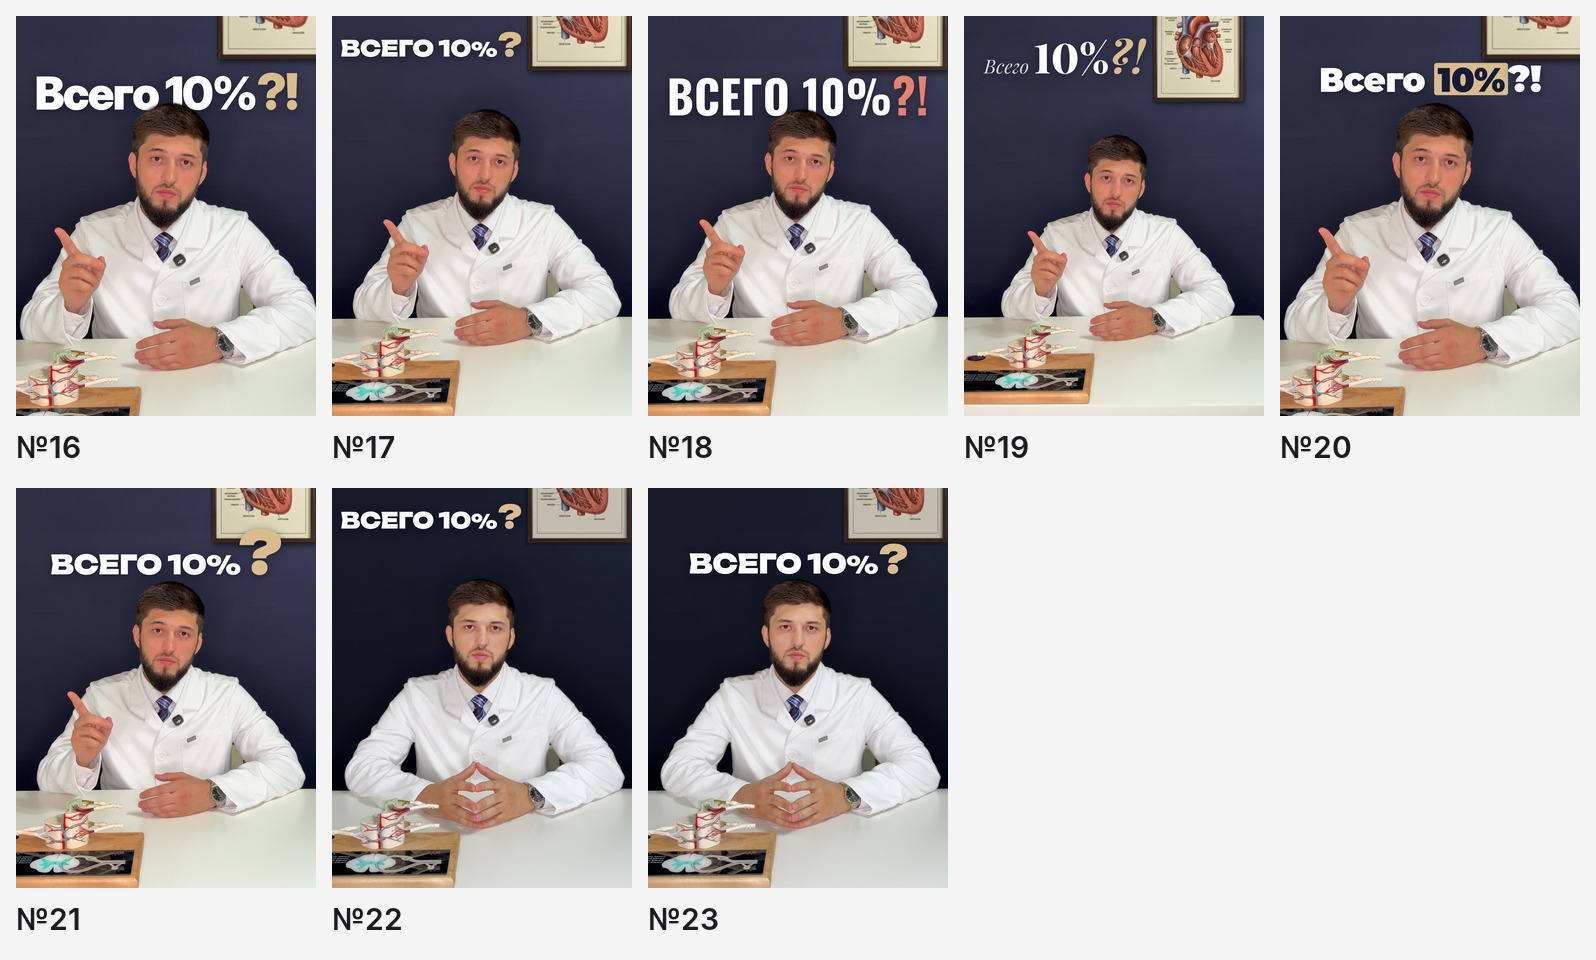
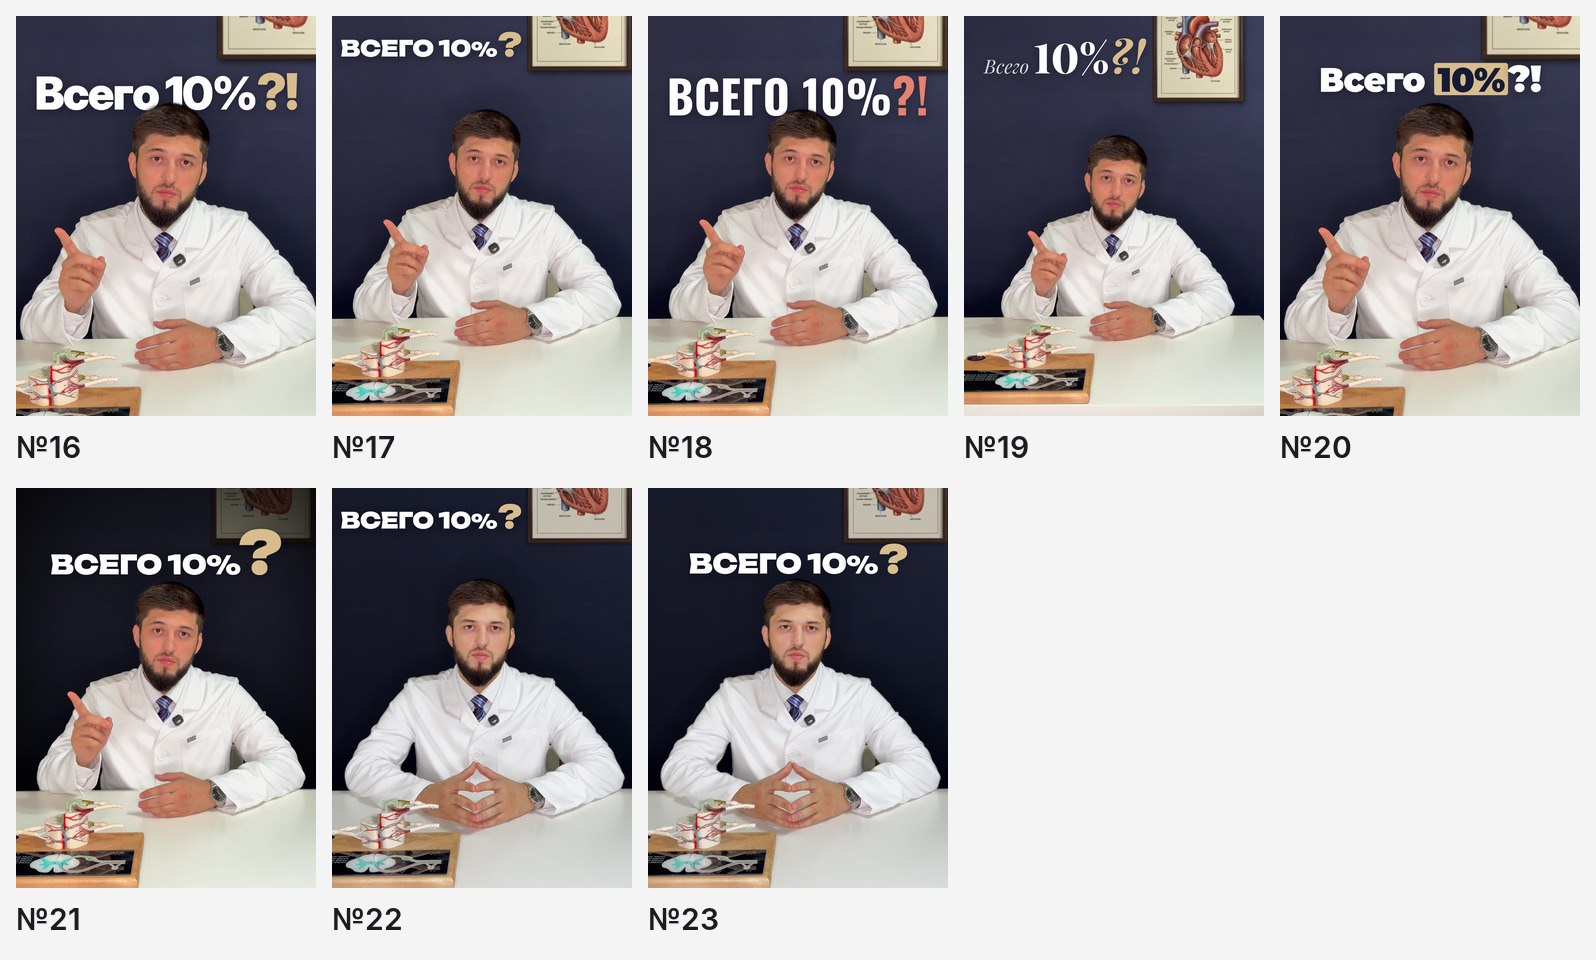
Reel 2 cover 21: darkened background like the first reel's bio title
darken.py darkens only the background through the RVM matte (the wall share
is subtracted from edge pixels, so no halo): wall ×0.56 near the head, down to
×0.17 at the top and ~×0.3 at the edges, poster ~×0.3; the doctor and the
table (below its back edge) are untouched. Levels matched to the client's
reference: wall 25–28 vs 23–31, top 6 vs 7.5, poster 36 vs 42, face 137.

Claude-Session: https://claude.ai/code/session_01CUeAeRhq8HGUP8vv7VWuP4

Changed region(s): [[0.0, 0.5, 0.2149, 0.8125], [0.1228, 0.7812, 0.1535, 0.8125]]

diff --git a/doctor-intro-reels/reel_2/covers/cover.html b/doctor-intro-reels/reel_2/covers/cover.html
@@ -119,7 +119,7 @@ const V = {
       <div class="t mont" data-w="800" data-center style="top:398px; font-weight:900; font-size:110px; letter-spacing:-.02em">Всего <span class="mark">10%</span><span style="font-size:1.1em">?!</span></div>` },
   // № 21 — № 17 в прежнем виде (до правок по разметке), без «!», по центру; «?» и «%» здесь ещё крупнее.
   // Большой «?» стоит на одной линии с буквами и заходит на картину (так попросил заказчик).
-  21: { z: "b", base: "base2", front: `
+  21: { z: "b", base: "base2", dark: true, front: `
       <div class="t unb" data-center style="top:365px; font-weight:900; font-size:96px; letter-spacing:-.02em">ВСЕГО 10<span class="pct" style="font-size:.96em">%</span><span class="acc q" style="font-size:2.22em; margin-left:-.03em">?</span></div>` },
   // № 22, 23 — № 17 и № 21 на кадре со скриншота заказчика (base3: руки сложены, ник убран);
   // голова здесь на 7 px выше, поэтому строка № 23 чуть меньше — зазоры до картины и макушки равны.
@@ -131,7 +131,7 @@ const V = {
 window.setVariant = async (n) => {
   const v = V[n];
   const dir = v.base || "base";                       // base — кадр 99,80 с (№ 1–15)
-  document.getElementById("bg").src = `${dir}/frame_1080_z${Z[v.z]}.png`;
+  document.getElementById("bg").src = `${dir}/frame_1080_z${Z[v.z]}${v.dark ? "_dark" : ""}.png`;   // dark — фон затемнён (darken.py)
   const p = document.getElementById("person");
   p.style.display = v.person ? "block" : "none";
   if (v.person) p.src = `${dir}/person_z${Z[v.z]}.png`;

diff --git a/doctor-intro-reels/reel_2/covers/scripts/darken.py b/doctor-intro-reels/reel_2/covers/scripts/darken.py
@@ -1,0 +1,67 @@
+"""Затемнение фона обложки «как в первом ролике» (титр «Краткая биография»): стена почти чёрная
+сверху и к краям, картина приглушена, врач и стол — без изменений.
+
+Затемняется только фон: по маске фигуры (RVM) из пикселя вычитается доля стены, поэтому
+лицо, волосы и халат сохраняют яркость, а на краях фигуры не появляется ни светлый, ни тёмный
+ореол. Ниже задней кромки стола затемнения нет.
+Профиль (подобран по замерам образца): стена у головы ×0,56, сверху до ×0,17, к краям до ×0,3,
+картина в среднем ×0,3.
+
+python3 scripts/darken.py --base base2 --z 1.15        → base2/frame_1080_z1.15_dark.png
+"""
+import argparse
+import os
+
+import cv2
+import numpy as np
+
+COVERS = os.path.dirname(os.path.dirname(os.path.abspath(__file__)))
+BASE, TOP, VIGNETTE = 0.56, 0.70, 0.55
+FACE = (540, 760)                        # центр затемнения по краям (лицо врача)
+
+ap = argparse.ArgumentParser()
+ap.add_argument("--base", default="base2")
+ap.add_argument("--z", default="1.15")
+args = ap.parse_args()
+d = os.path.join(COVERS, args.base)
+C = cv2.imread(os.path.join(d, f"frame_1080_z{args.z}.png")).astype(np.float32)
+a = cv2.imread(os.path.join(d, f"alpha_z{args.z}.png"), cv2.IMREAD_GRAYSCALE).astype(np.float32) / 255
+H, W = a.shape
+
+
+def smoothstep(e0, e1, x):
+    t = np.clip((x - e0) / (e1 - e0), 0, 1)
+    return t * t * (3 - 2 * t)
+
+
+# задняя кромка стола: первая светлая строка под стеной, только там, где нет фигуры
+lum = cv2.cvtColor(C.astype(np.uint8), cv2.COLOR_BGR2GRAY)
+xs, ys = [], []
+for x in range(0, W, 8):
+    col = lum[1100:1700, x]
+    free = a[1100:1700, x] < 0.05
+    hit = np.where((col > 150) & free)[0]
+    if len(hit) and free[:hit[0]].all():
+        xs.append(x)
+        ys.append(1100 + hit[0])
+k, b = np.polyfit(xs, ys, 1)
+res = np.abs(np.polyval([k, b], xs) - ys)
+k, b = np.polyfit(np.array(xs)[res < 6], np.array(ys)[res < 6], 1)            # без выбросов
+print(f"кромка стола: y ≈ {b:.0f} + {k:.4f}·x  (по {int((res < 6).sum())} столбцам)")
+
+yy, xx = np.mgrid[0:H, 0:W].astype(np.float32)
+wall = 1 - smoothstep(-6, 6, yy - (k * xx + b))                                # 1 — стена, 0 — стол
+top = TOP * np.clip(1 - yy / 800, 0, 1) ** 1.6
+r = np.hypot((xx - FACE[0]) / 540, (yy - FACE[1]) / 900)
+vig = VIGNETTE * smoothstep(0.55, 1.25, r)
+f = 1 - wall * (1 - BASE * (1 - top) * (1 - vig))                              # множитель фона
+
+# цвет стены под краем фигуры — по соседним чистым пикселям фона
+bg = (a < 0.05).astype(np.float32)
+est = cv2.GaussianBlur(C * bg[..., None], (0, 0), 6) / np.maximum(cv2.GaussianBlur(bg, (0, 0), 6), 1e-3)[..., None]
+w = smoothstep(0.02, 0.15, a)[..., None]
+B = C * (1 - w) + est * w
+out = C - ((1 - a) * (1 - f))[..., None] * B
+out = np.clip(np.round(out), 0, 255).astype(np.uint8)
+cv2.imwrite(os.path.join(d, f"frame_1080_z{args.z}_dark.png"), out)
+print("готово:", os.path.join(args.base, f"frame_1080_z{args.z}_dark.png"))

diff --git a/doctor-intro-reels/reel_2/covers/README.md b/doctor-intro-reels/reel_2/covers/README.md
@@ -43,7 +43,7 @@
 | 18 | ВСЕГО 10%?! | узкий Oswald за головой, коралловые «?!», план 1,15× |
 | 19 | Всего 10%?! | антиква: маленькое курсивное «Всего», крупные «10%», золотые «?!»; общий план |
 | 20 | Всего 10%?! | «10%» на золотой плашке, Montserrat, план 1,30× |
-| 21 | ВСЕГО 10%? | № 17 в прежнем виде без «!», заглавными, «?» 2,22 на одной линии с буквами, верхом заходит на картину (по просьбе заказчика), «%» 0,96 от букв, крупный «?» и меньший «%»: Unbounded, строка целиком между картиной и головой, план 1,15× |
+| 21 | ВСЕГО 10%? | № 17 в прежнем виде без «!», заглавными, «?» 2,22 на одной линии с буквами, верхом заходит на картину (по просьбе заказчика), «%» 0,96 от букв, крупный «?» и меньший «%»: Unbounded, строка целиком между картиной и головой, план 1,15×; фон затемнён как в титре «Краткая биография» первого ролика (`darken.py`) |
 | 22 | ВСЕГО 10%? | № 17 на кадре со второго скриншота (руки сложены) |
 | 23 | ВСЕГО 10%? | № 21 на кадре со второго скриншота (руки сложены) |
 
@@ -56,6 +56,7 @@ python3 scripts/base_frame.py                  # кадр из 4K-исходни
 python3 scripts/base_frame.py --ref reference/screenshot_cover_frame.jpg --out base2 --from 99.55 --to 99.90
 python3 scripts/matte.py [--out base2]         # маска фигуры (RVM) → person_z*.png
 python3 scripts/base_from_screenshot.py reference/screenshot_cover_frame3.jpg --out base3   # основа из скриншота
+python3 scripts/darken.py --base base2 --z 1.15   # затемнение фона (стена, картина) по маске фигуры
 NODE_PATH=$(npm root -g) node scripts/render_covers.js [номера]   # cover.html → output/cover_NN.png
 python3 scripts/export.py                      # JPG + обзоры
 NODE_PATH=$(npm root -g) node scripts/measure_text.js <папка> [номера] && python3 scripts/qc_text.py <папка>  # проверка
